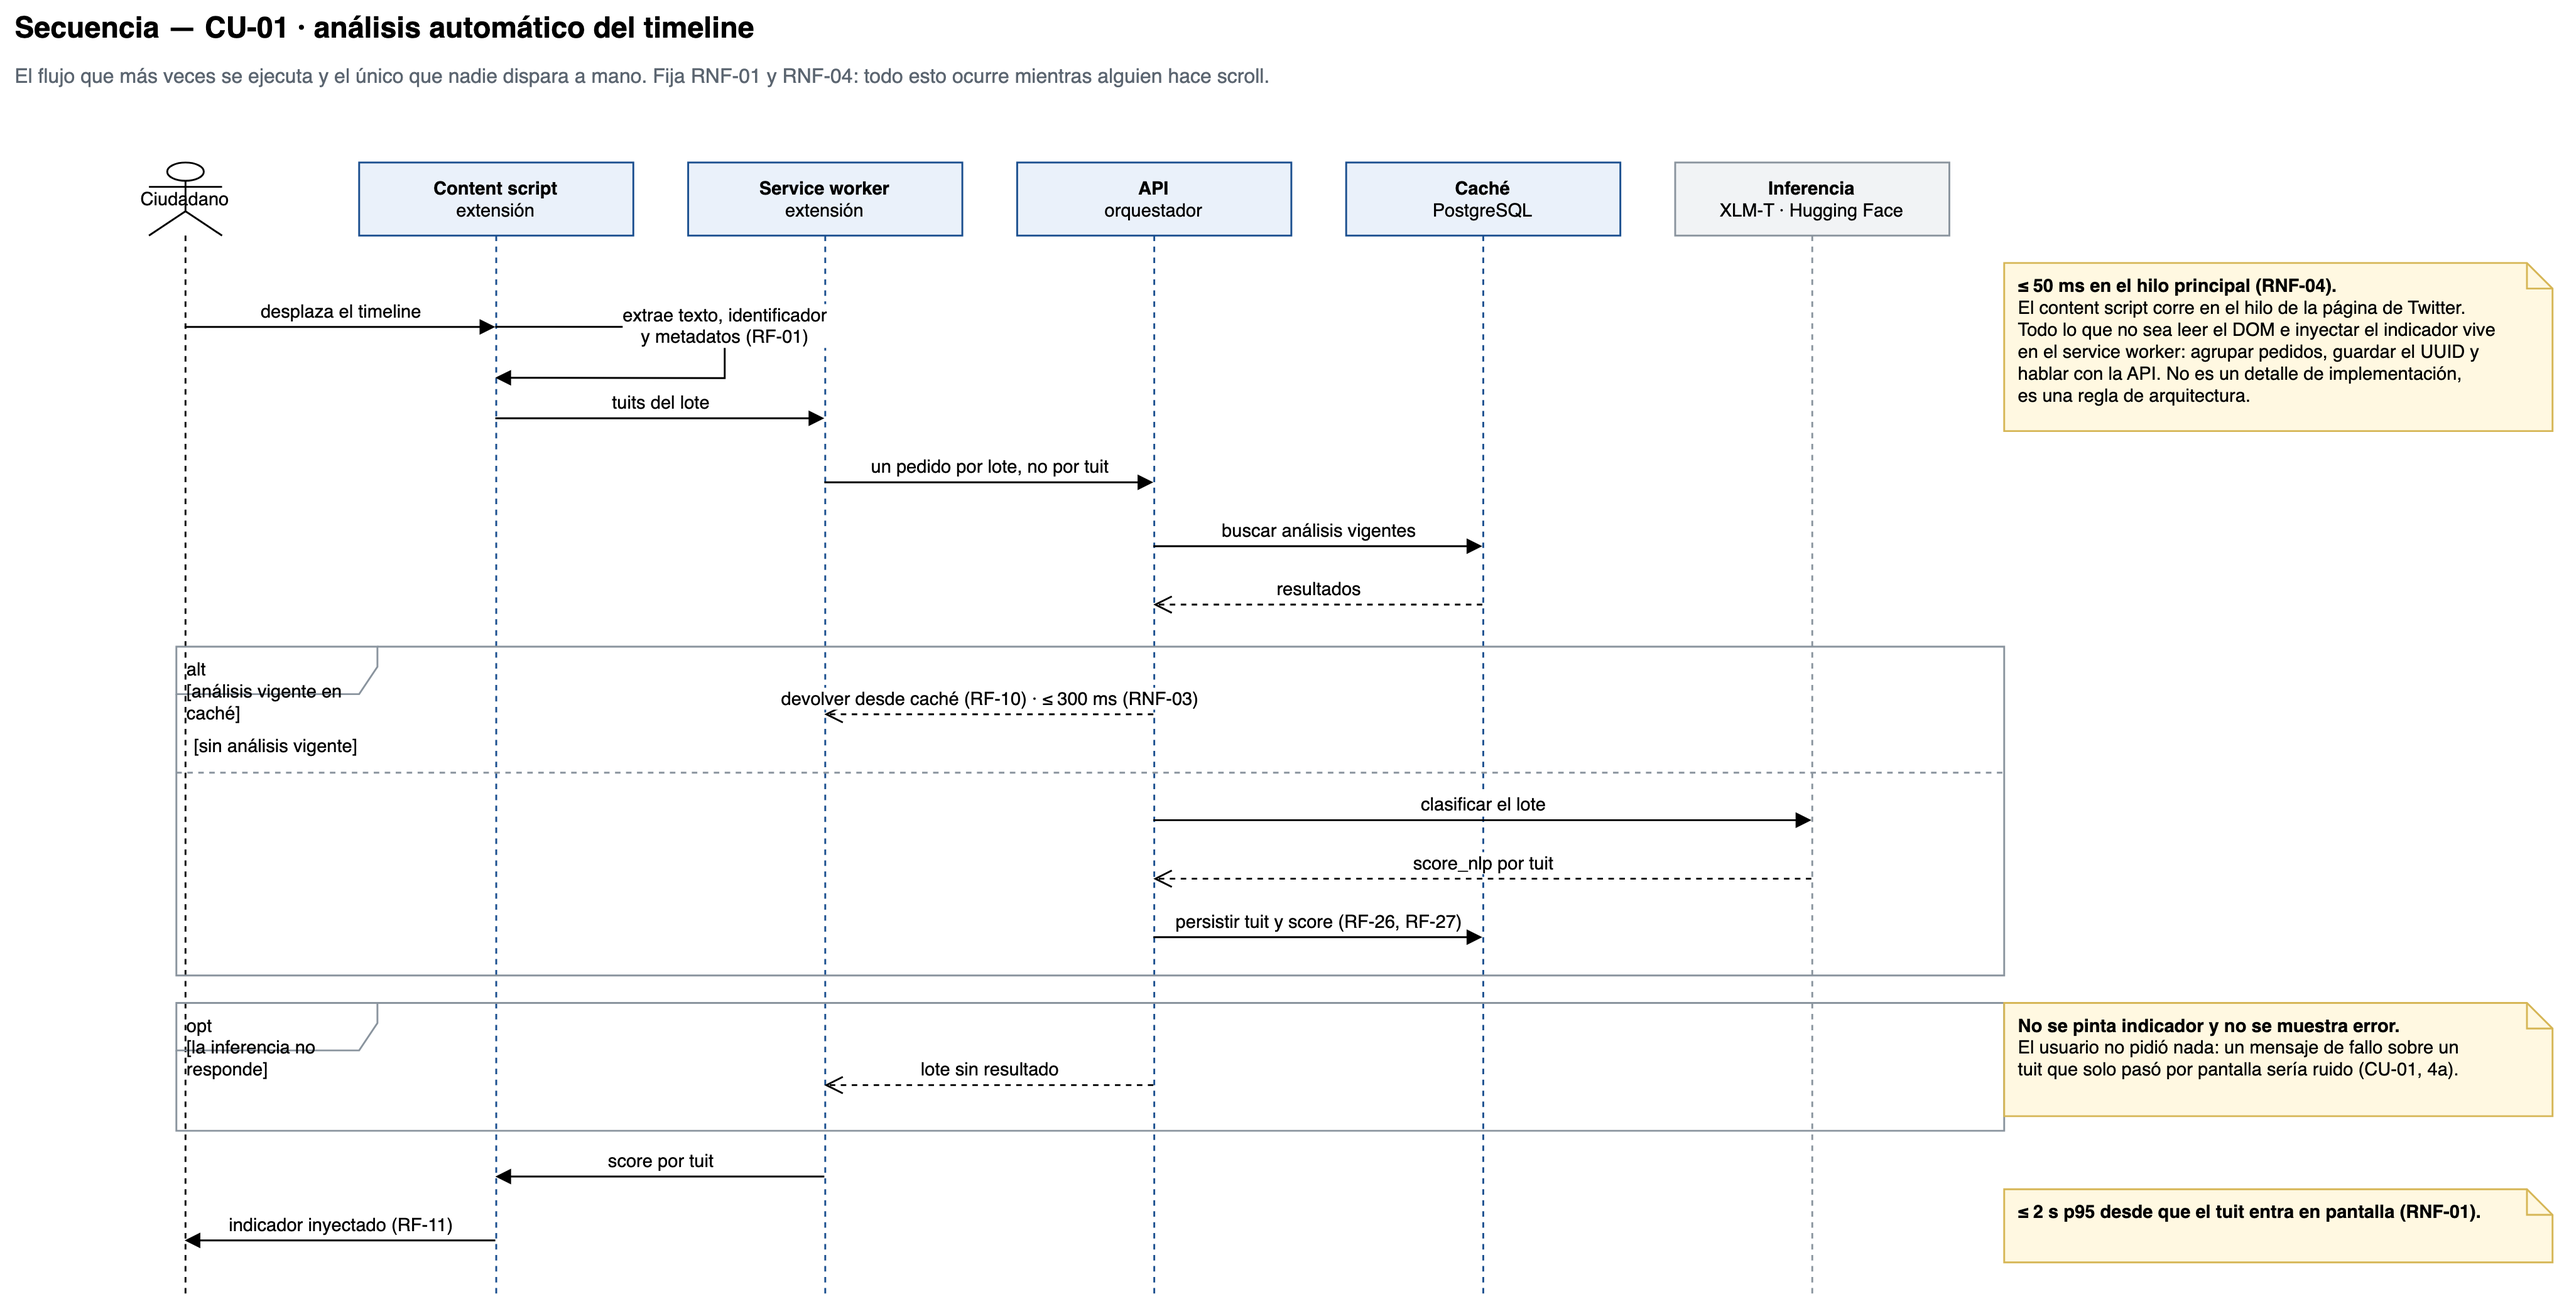
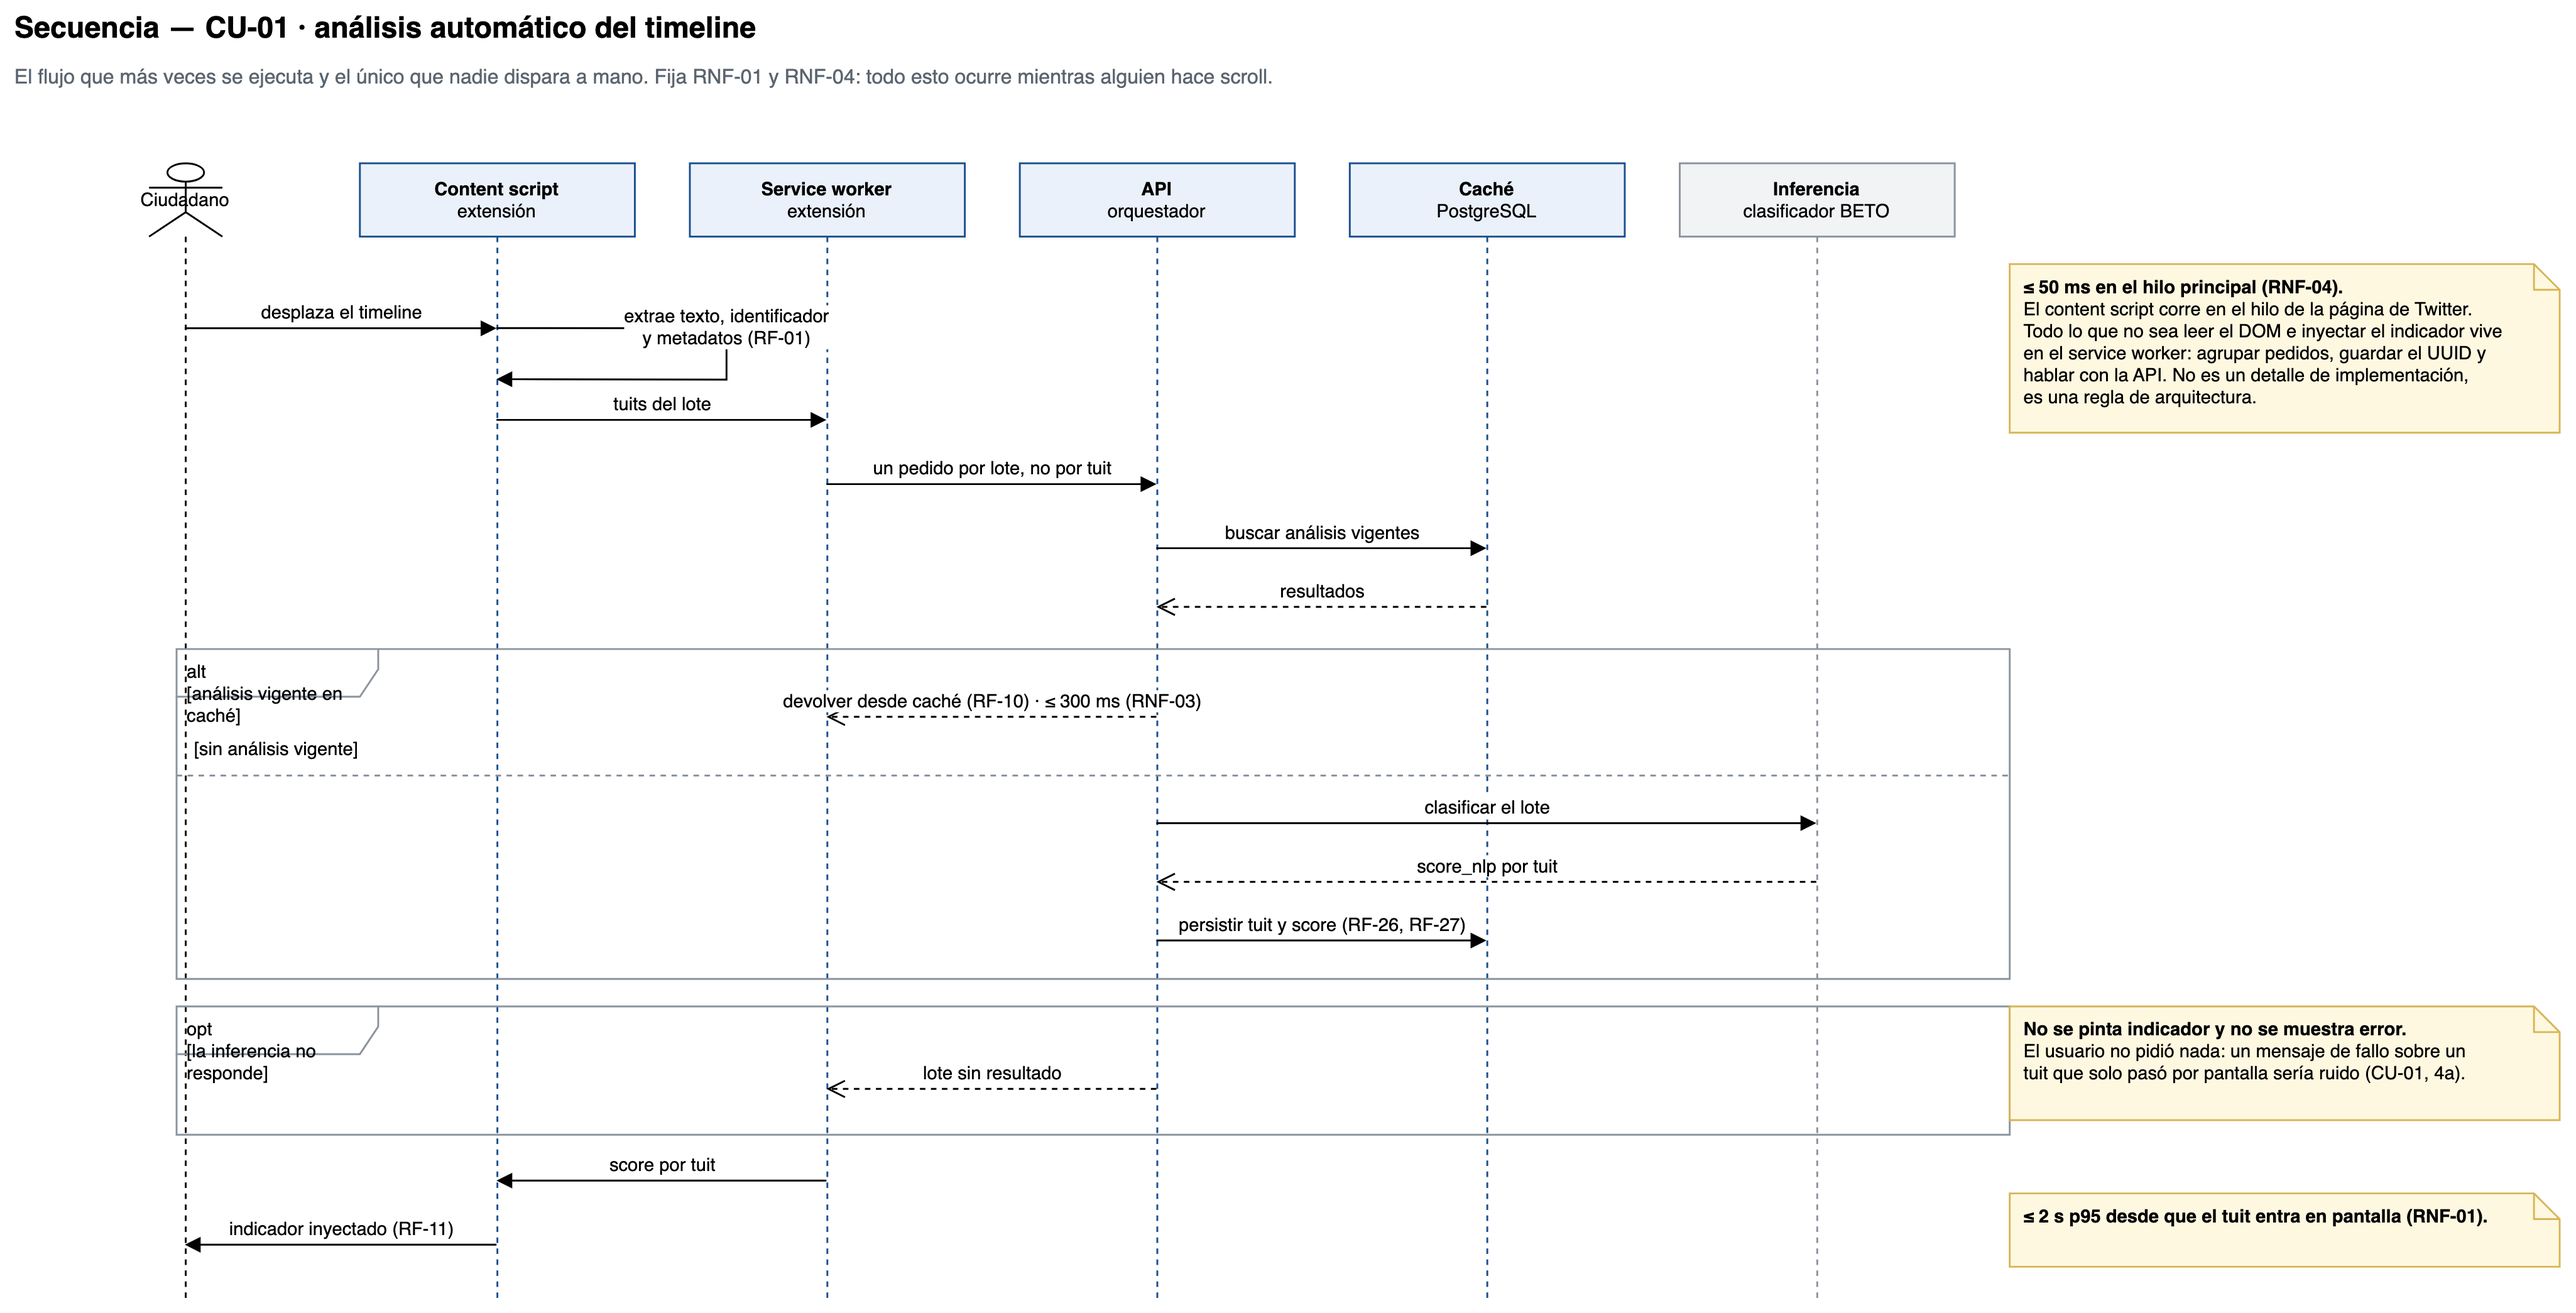
Redibujar contexto, contenedores y despliegue según el sistema construido
Los tres diagramas mostraban el diseño previo y el caption lo aclaraba:
- c4-contenedores: sin el panel React/Vercel (la API genera las páginas
  del panel) ni el proveedor de identidad; el analista entra con la clave
  de su organización en cookie HttpOnly.
- despliegue-red: sin la zona de borde CDN ni el proveedor OAuth/OIDC;
  quedan cuatro zonas y el texto del cap. 4 lo acompaña.
- c4-contexto: sin el proveedor de identidad.

En las tres, en c4-componentes, secuencia-cu01 y flujo-informacion, el
clasificador pasa de «XLM-T · Hugging Face» a «servicio de inferencia ·
BETO», con la aclaración de que en el prototipo corre en local. En der,
usuario_b2b ya no se autentica contra un proveedor de identidad.

diff --git a/documento/chapters/chapter04.tex b/documento/chapters/chapter04.tex
@@ -381,7 +381,7 @@ El primer nivel, que presenta la Figura~\ref{fig:c4-contexto}, ubica al sistema 
 \begin{figure}[t]
   \centering
   \includegraphics[width=0.95\linewidth]{chapters/figures/c4-contexto}
-  \caption{Modelo C4, nivel 1: diagrama de contexto. Las fuentes oficiales y los medios de referencia se representan con línea continua; los verificadores profesionales, con línea discontinua, por su baja cobertura y su latencia de días. El proveedor de identidad corresponde a una evolución prevista: en el prototipo, el analista accede con la clave de su organización. Fuente: elaboración propia.}
+  \caption{Modelo C4, nivel 1: diagrama de contexto. Las fuentes oficiales y los medios de referencia se representan con línea continua; los verificadores profesionales, con línea discontinua, por su baja cobertura y su latencia de días. Fuente: elaboración propia.}
   \label{fig:c4-contexto}
 \end{figure}
 \end{landscape}
@@ -417,7 +417,7 @@ El segundo nivel, que presenta la Figura~\ref{fig:c4-contenedores}, descompone e
 \begin{figure}[t]
   \centering
   \includegraphics[width=0.95\linewidth]{chapters/figures/c4-contenedores}
-  \caption{Modelo C4, nivel 2: diagrama de contenedores. El panel web figura como aplicación estática separada, según una versión anterior del diseño: en el sistema construido, sus páginas las genera la API. El proveedor de identidad corresponde a una evolución prevista. Fuente: elaboración propia.}
+  \caption{Modelo C4, nivel 2: diagrama de contenedores. El panel web no figura como contenedor propio porque sus páginas las genera la API. Fuente: elaboración propia.}
   \label{fig:c4-contenedores}
 \end{figure}
 \end{landscape}
@@ -717,7 +717,7 @@ Para la extensión de navegador se adopta TypeScript, empaquetado con Vite y con
 
 \subsubsection{Arquitectura de red}
 
-La Figura~\ref{fig:despliegue} presenta el despliegue del sistema organizado en cinco zonas, ordenadas por grado de control. Tres de las cinco quedan por completo fuera del control del proyecto, circunstancia que fundamenta el requerimiento de degradación elegante: la entrega de un análisis parcial identificado como tal es la consecuencia directa de que el sistema dependa de servicios ajenos.
+La Figura~\ref{fig:despliegue} presenta el despliegue del sistema organizado en cuatro zonas, ordenadas por grado de control. Tres de las cuatro quedan por completo fuera del control del proyecto, circunstancia que fundamenta el requerimiento de degradación elegante: la entrega de un análisis parcial identificado como tal es la consecuencia directa de que el sistema dependa de servicios ajenos.
 
 Todo el tráfico entre zonas se transporta sobre HTTPS con TLS 1.3. El servicio expone un único origen cifrado, desde el que se sirven también las páginas del panel, sin admitir tráfico en claro. La comunicación entre el servicio, la tarea de ingesta y el motor de base de datos ocurre dentro de la red privada del proveedor: la base no expone puerto público hacia internet, por lo que ninguna credencial de acceso a datos circula por la red pública.
 
@@ -729,7 +729,7 @@ Los datos que atraviesan cada frontera difieren, y esa diferencia es deliberada.
 \begin{figure}[t]
   \centering
   \includegraphics[width=0.95\linewidth]{chapters/figures/despliegue-red}
-  \caption{Despliegue y arquitectura de red. Las cinco zonas están ordenadas por grado de control y las aristas señaladas indican los cruces de frontera de confianza. La zona 3 y el proveedor de identidad corresponden a una versión anterior del diseño: en el sistema construido, el panel se sirve desde la API de la zona 4 y el analista accede con la clave de su organización. Fuente: elaboración propia.}
+  \caption{Despliegue y arquitectura de red. Las cuatro zonas están ordenadas por grado de control y las aristas señaladas indican los cruces de frontera de confianza. Fuente: elaboración propia.}
   \label{fig:despliegue}
 \end{figure}
 \end{landscape}
